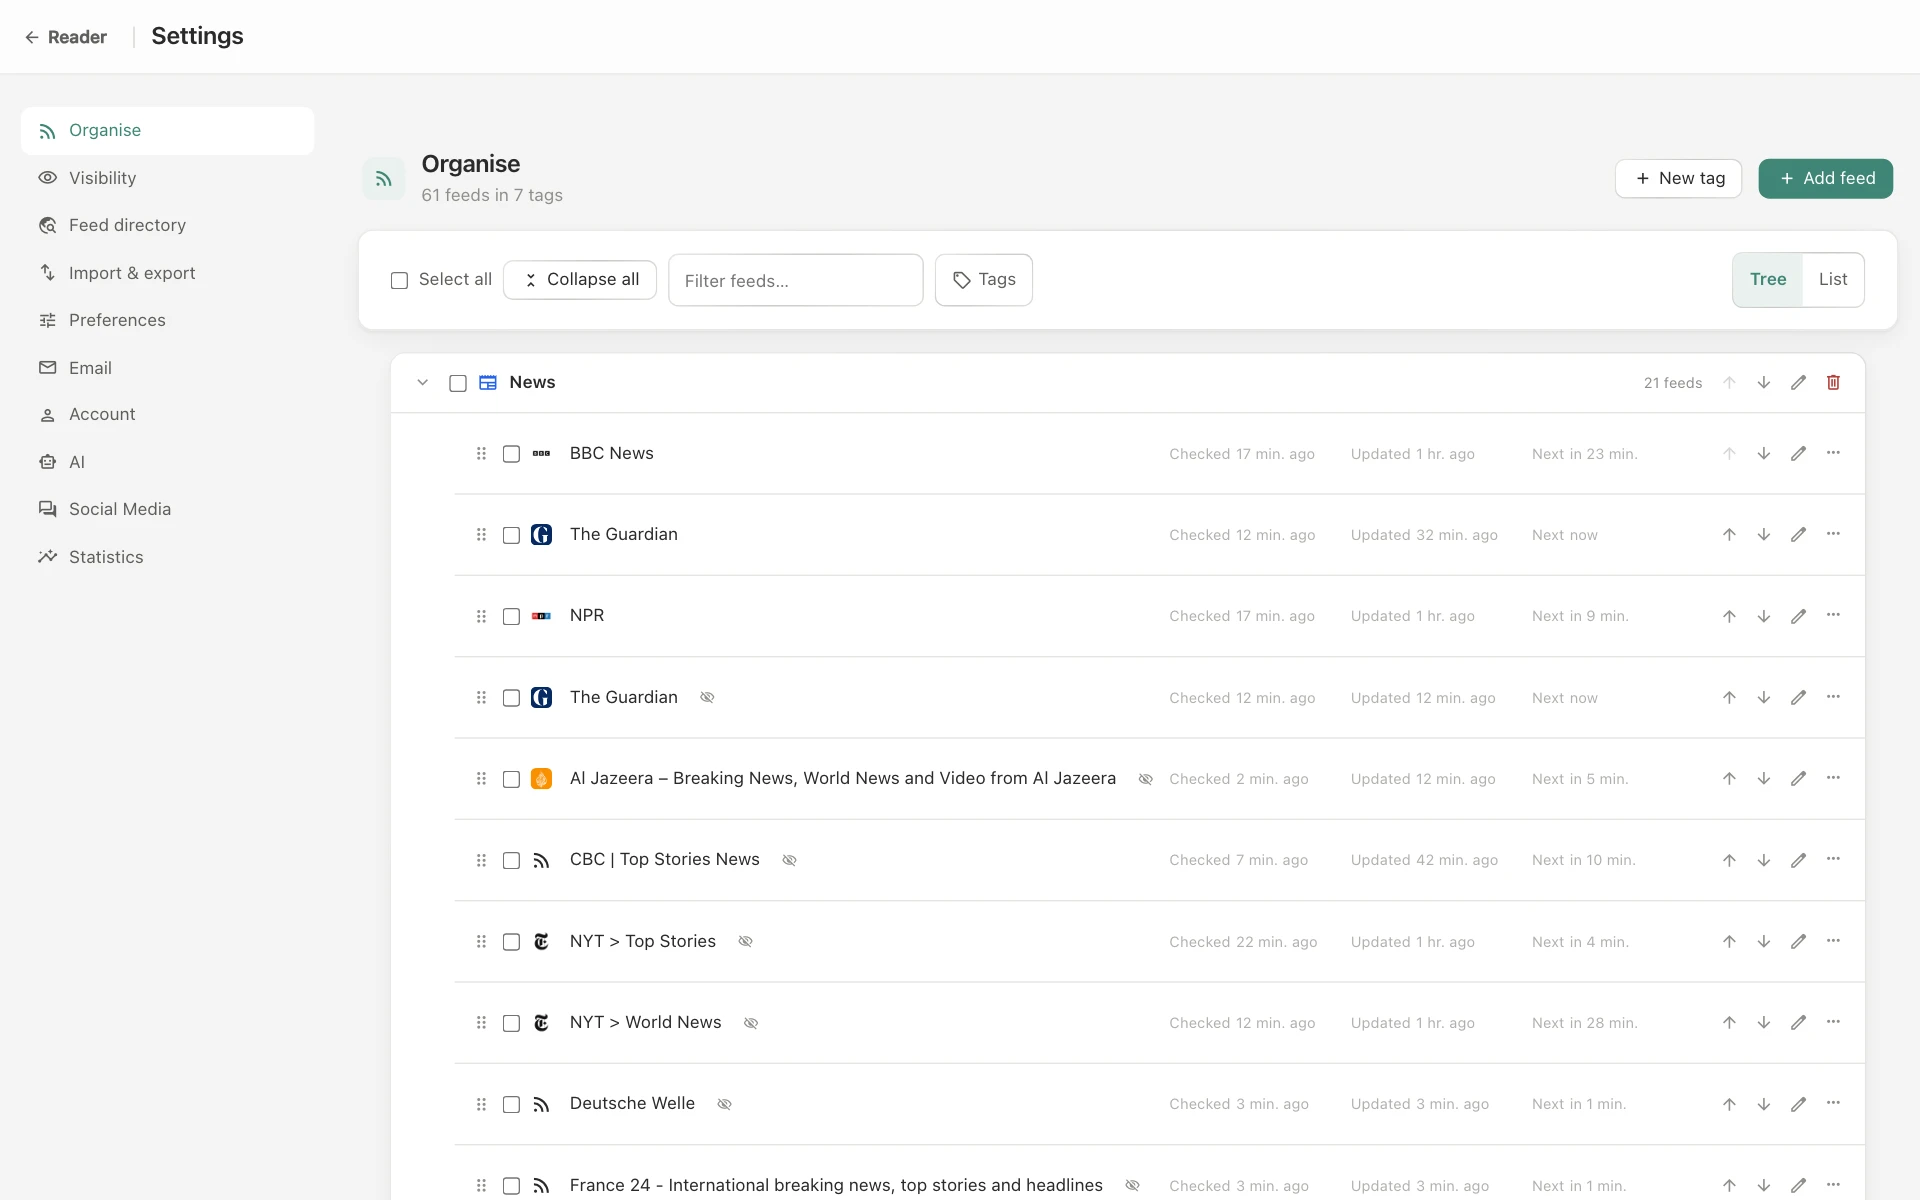
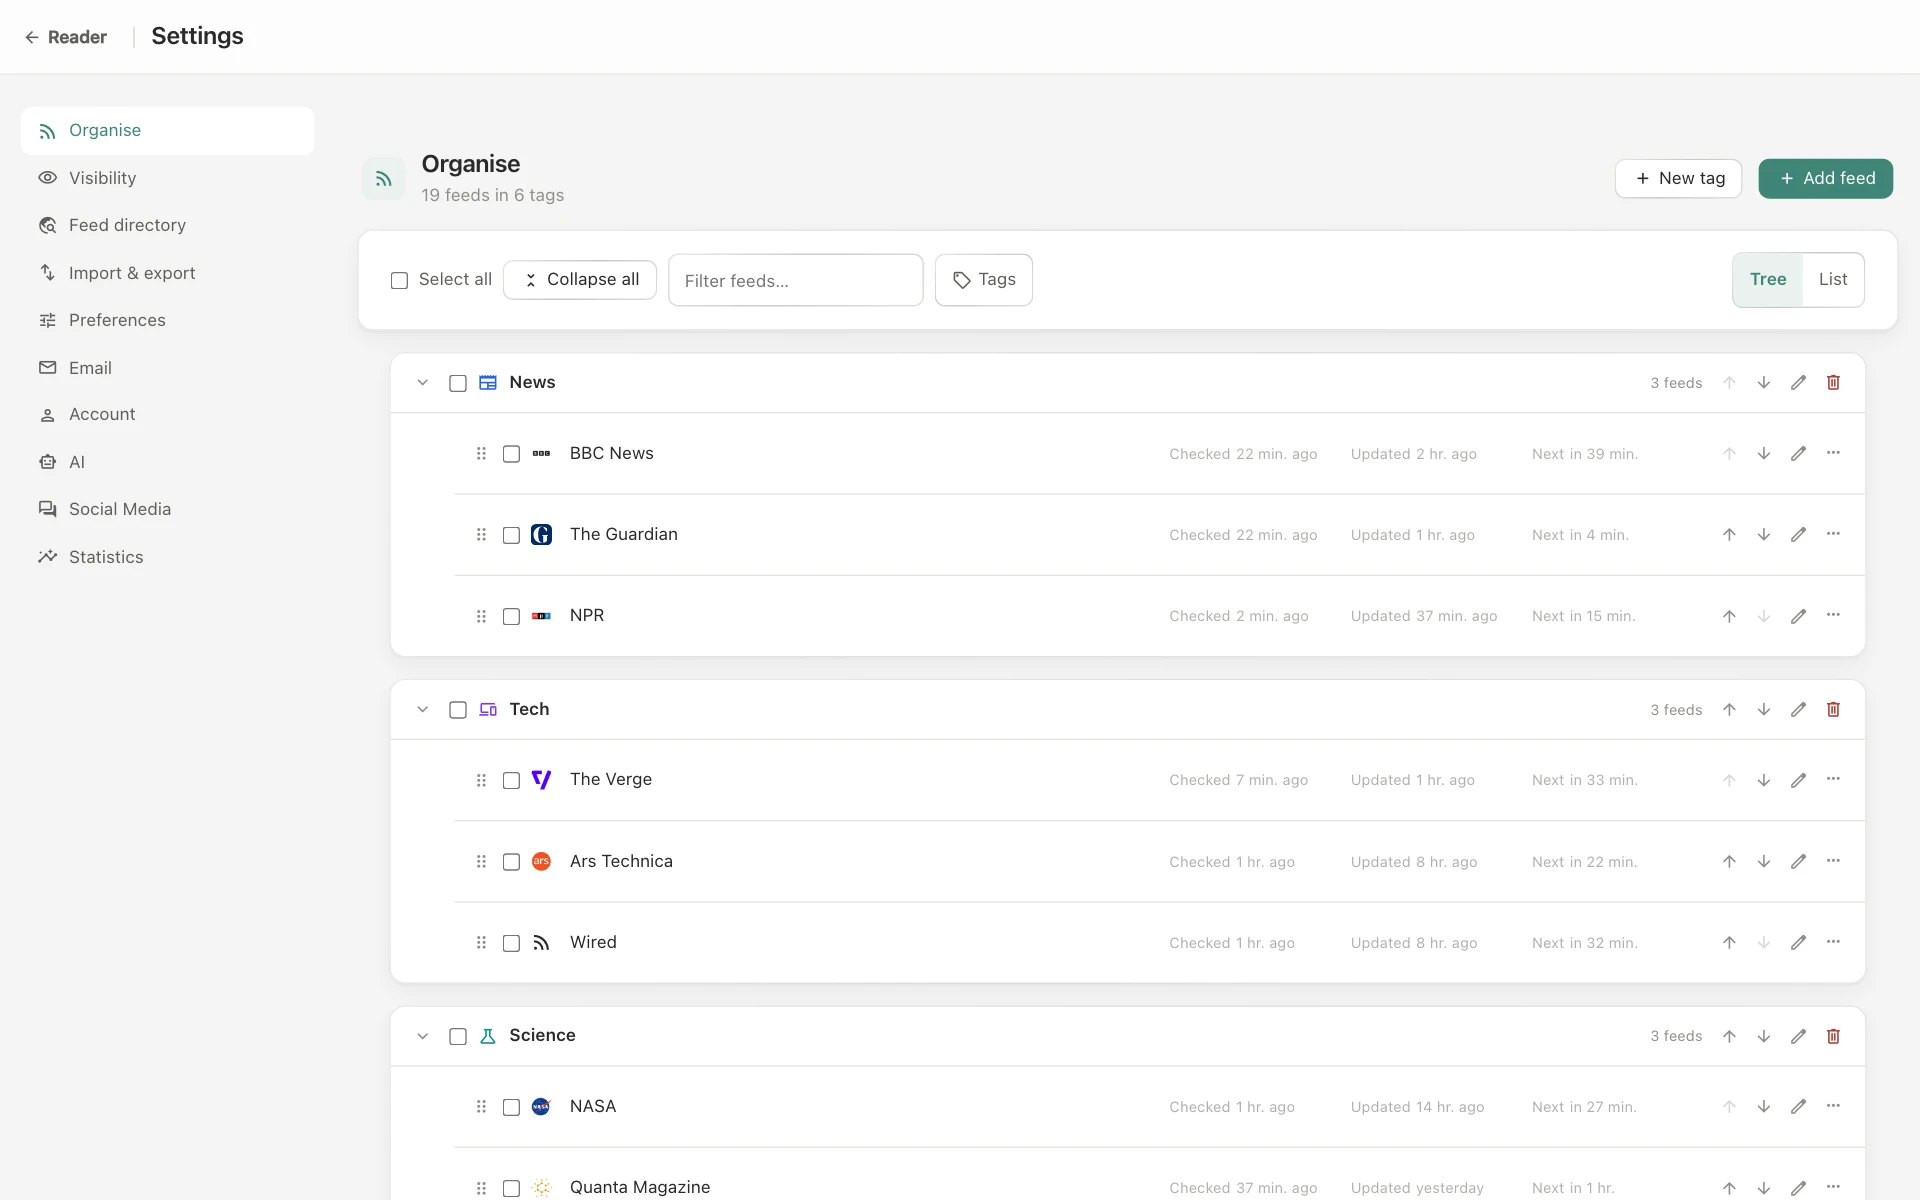
docs(#2452): Lemmy in the README's social paragraph, alt texts that match their pictures, and the demo's own Organise page
The Organise and onboarding shots were taken while 42 feeds were borrowed;
they show the demo account's 19 feeds again.

diff --git a/docs/homepage/index.html b/docs/homepage/index.html
@@ -327,7 +327,7 @@ pre .c{color:var(--text-muted)}
         <li><span><strong>Notifications:</strong> each network’s section carries a bell with the unseen count; likes, replies, reposts, mentions and follows are grouped in one list.</span></li>
       </ul>
     </div>
-    <div class="shot"><a class="zoom" href="screenshots/lemmy-light.webp"><img src="screenshots/lemmy-light.webp" width="1920" height="1200" loading="lazy" decoding="async" alt="A Lemmy post beside the Lemmy list, with its score, its community and its comments"></a></div>
+    <div class="shot"><a class="zoom" href="screenshots/lemmy-light.webp"><img src="screenshots/lemmy-light.webp" width="1920" height="1200" loading="lazy" decoding="async" alt="A Lemmy post open beside the list of followed communities, with its score and its community"></a></div>
   </div>
   <div class="wrap">
     <div class="layouts closeups">

diff --git a/docs/features.md b/docs/features.md
@@ -104,8 +104,8 @@ screenshots; the [gallery](screenshots.md) has more.
     per query. Mastodon search needs full-text search on your instance.
 - Notifications from connected accounts: each network's sidebar section
   carries a bell with the unseen count. The list groups likes, reposts,
-  replies, mentions, quotes, ended polls and follows, and a row opens the post
-  in the reader.
+  replies, mentions, quotes, ended polls and follows; a row opens its post in
+  the reader when the reader holds it, and on the network otherwise.
 - A feed directory in Settings: about 50,000 news sites and podcasts from the
   InfoBubble sources catalog, narrowed to the countries and languages you
   choose. Filter by category, article length and language, search sites and

diff --git a/README.md b/README.md
@@ -47,9 +47,9 @@ Podcasts.
   <img src="docs/screenshots/mobile-podcast-playlist-light.webp" alt="The audio playlist panel on a phone, above the player bar" width="24%">
 </p>
 
-Connect a Bluesky or Mastodon account and its home timeline, lists, custom
-feeds and follows arrive as feeds; a post shows what it embeds, and its likes
-and replies stay in the reader.
+Connect a Bluesky, Mastodon or Lemmy account and its home timeline, lists,
+custom feeds, follows and communities arrive as feeds; a post shows what it
+embeds, and its likes and replies stay in the reader.
 
 <p>
   <img src="docs/screenshots/bluesky-light.webp" alt="The Bluesky section: home timeline, a custom feed and followed accounts, with posts in the magazine" width="74%">

diff --git a/docs/screenshots.md b/docs/screenshots.md
@@ -79,7 +79,7 @@ sidebar counts them like any other feed.
 
 ![The Bluesky section with the home timeline, a custom feed and followed accounts](screenshots/bluesky-light.webp)
 
-![The Mastodon section with its timeline and followed accounts](screenshots/mastodon-light.webp)
+![Posts from followed Mastodon accounts in the magazine](screenshots/mastodon-light.webp)
 
 A post shows what it embeds — images, video, a link card or the post it
 quotes — with its likes and replies in the reader.
